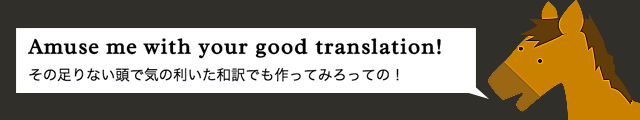
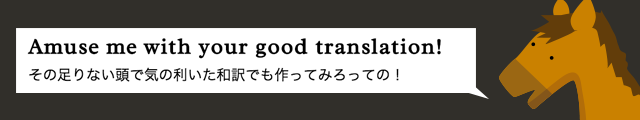
modify

Changed region(s): [[0.75, 0.0, 1.0, 1.0]]

diff --git a/public/assets/css/common.css b/public/assets/css/common.css
@@ -44,8 +44,8 @@ header {
 }
 #intro {
 	width: 100%;
-	min-height: 120px;
-	
+	text-align: center;
+	margin-top: 20px;
 }
 #intro .en {
 	font-family: 'Radley', serif;
@@ -54,7 +54,7 @@ header {
 	margin-bottom: 4px;
 }
 #toppage h1 {
-	margin: 20px 0 10px;
+	margin: -15px 0 10px;
 	background: #666;
 	color: #fff;
 	padding: 5px 10px 2px;
@@ -236,4 +236,67 @@ header {
 #nav a {
 	color: #333;
 	font-size: 12px;
+}
+
+@media screen and (max-width: 1000px) {
+}
+
+@media screen and (max-width: 640px) {
+#intro {
+	margin-top: 0;
+}
+#intro img {
+	width: 100%;
+}
+#toppage ul li {
+}
+}
+@media screen and (max-width: 480px) {
+.header_logo img {
+	width: 70%;
+	margin-left: -6px;
+}
+.header_login {
+	margin-top: 7px;
+}
+#theme h1 {
+	font-size: 18px;
+	margin-bottom: 15px;
+}
+#intro {
+	margin-top: 0;
+}
+#intro img {
+	width: 100%;
+}
+#toppage ul li {
+	width: 100%;
+}
+#toppage h1 {
+	margin: 10px 0 10px;
+}
+#theme h2 {
+	font-size: 36px;
+}
+#post {
+	margin-top: 22px;
+}
+#post .textarea_container {
+	width: 90%;
+}
+#post .name_container {
+	width: 90%;
+}
+.answer_container {
+	width: 90%;
+}
+.answer_right {
+	width: 74%;
+	margin-left: 28px;
+}
+#toppage {
+	margin-top: -35px;
+}
+@media screen and (max-width: 320px) {
+...
 }

diff --git a/main.rb b/main.rb
@@ -9,14 +9,14 @@ require "omniauth"
 require "omniauth-twitter"
 
 helpers Kaminari::Helpers::SinatraHelpers
-config = YAML.load_file( 'config.yml' )
+$config = YAML.load_file( 'config.yml' )
 database = YAML.load_file( 'database.yml' )
 enable :sessions
 
 # OmniAuth の設定
 use OmniAuth::Builder do
   # Twitter の OAuth を使う
-  provider :twitter, config["twitter"]["consumer_key"], config["twitter"]["consumer_secret"]
+  provider :twitter, $config["twitter"]["consumer_key"], $config["twitter"]["consumer_secret"]
 end
 
 ActiveRecord::Base.establish_connection({
